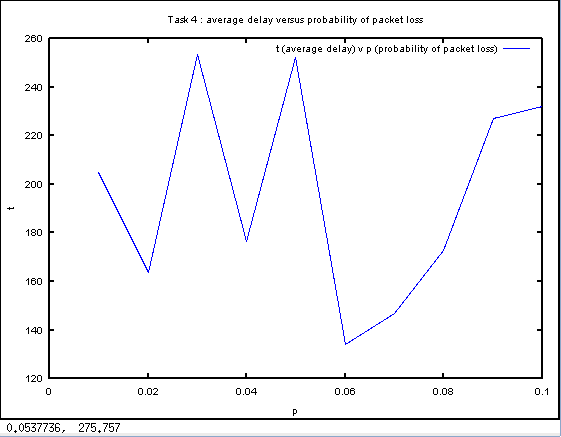
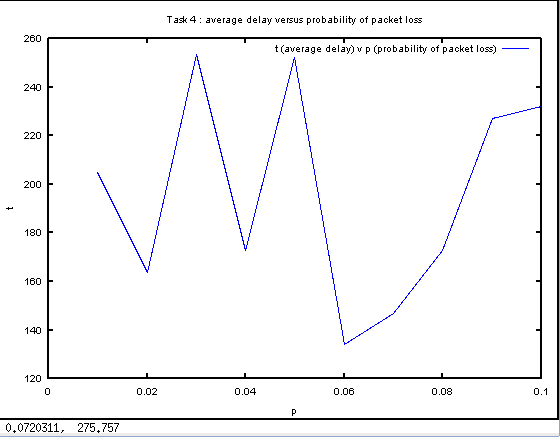
added tasks output after correcting average outputs

diff --git a/task_plot.m b/task_plot.m
@@ -2,13 +2,13 @@ N=[1,2,4,8,16,32,64,128,256,512,1024]
 t1=[700.812,240.156,282.1688,547.822,968.194,182.62,187.88,234.5,194.2,322.84,304.72]
 
 r=[1,2,3,4,5]
-t2=[14.795,75.54,252.186,521.478,951.36]
+t2=[27.292,115.634,252.186,521.478,951.36]
 
 MSS=[100,200,300,400,500,600,700,800,900,1000]
 t3=[835.45,306.044,239.94,212.142,252.186,201.78,142.26,99.12,91.14,80.9]
 
 p=[0.01,0.02,0.03,0.04,0.05,0.06,0.07,0.08,0.09,0.10]
-t4=[204.984,163.8,253.724,176.626,252.186,133.874,146.96,172.58,227.12,231.98]
+t4=[204.984,163.8,253.724,172.626,252.186,133.874,146.96,172.58,227.12,231.98]
 
 plot(N,t1)
 title("Task 1 : average delay versus window size")
